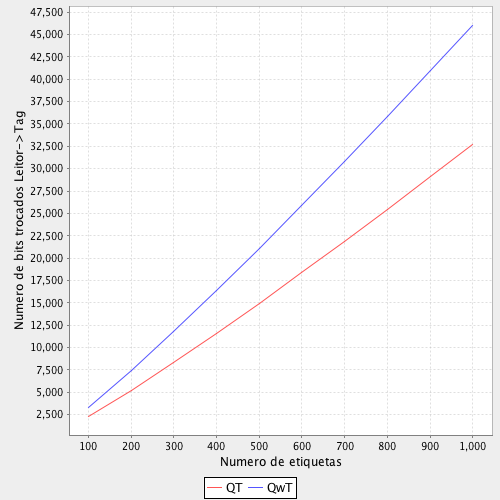
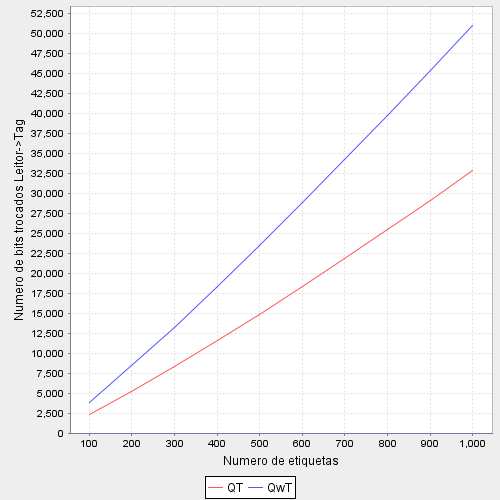
Adicionei o length do windowSize pra calcular o totalBitsReader

diff --git a/index/tree.html b/index/tree.html
@@ -10,7 +10,7 @@
 <img src="tree/artigo/bits-leitor-tag.png" height="500"/>
 <h2>Bits Transmitidos Tag->Leitor</h2><img src="tree/bits-tag-leitor.png" />
 <img src="tree/artigo/bits-tag-leitor.png"  height="500"/>
-<h2>Número de passos</h2>
+<h2>NÃºmero de passos</h2>
 <img src="tree/passos.png" />
 <img src="tree/artigo/passos.png"  height="500"/>
 </body>

diff --git a/src/tree/QwT.java b/src/tree/QwT.java
@@ -43,7 +43,7 @@ public class QwT implements TreeAlgorithm{
 			lastPrefix = prefix;
 			
 			totalIterations += 1;
-			totalBitsReader += prefix.length();
+			totalBitsReader += prefix.length() + Integer.toString(windowSize).length();
 			totalBitsTag += answers * windowSize;
 //			System.out.printf("respostas: %d window: %d total: %d\n", answers, windowSize, answers*windowSize);
 		}
